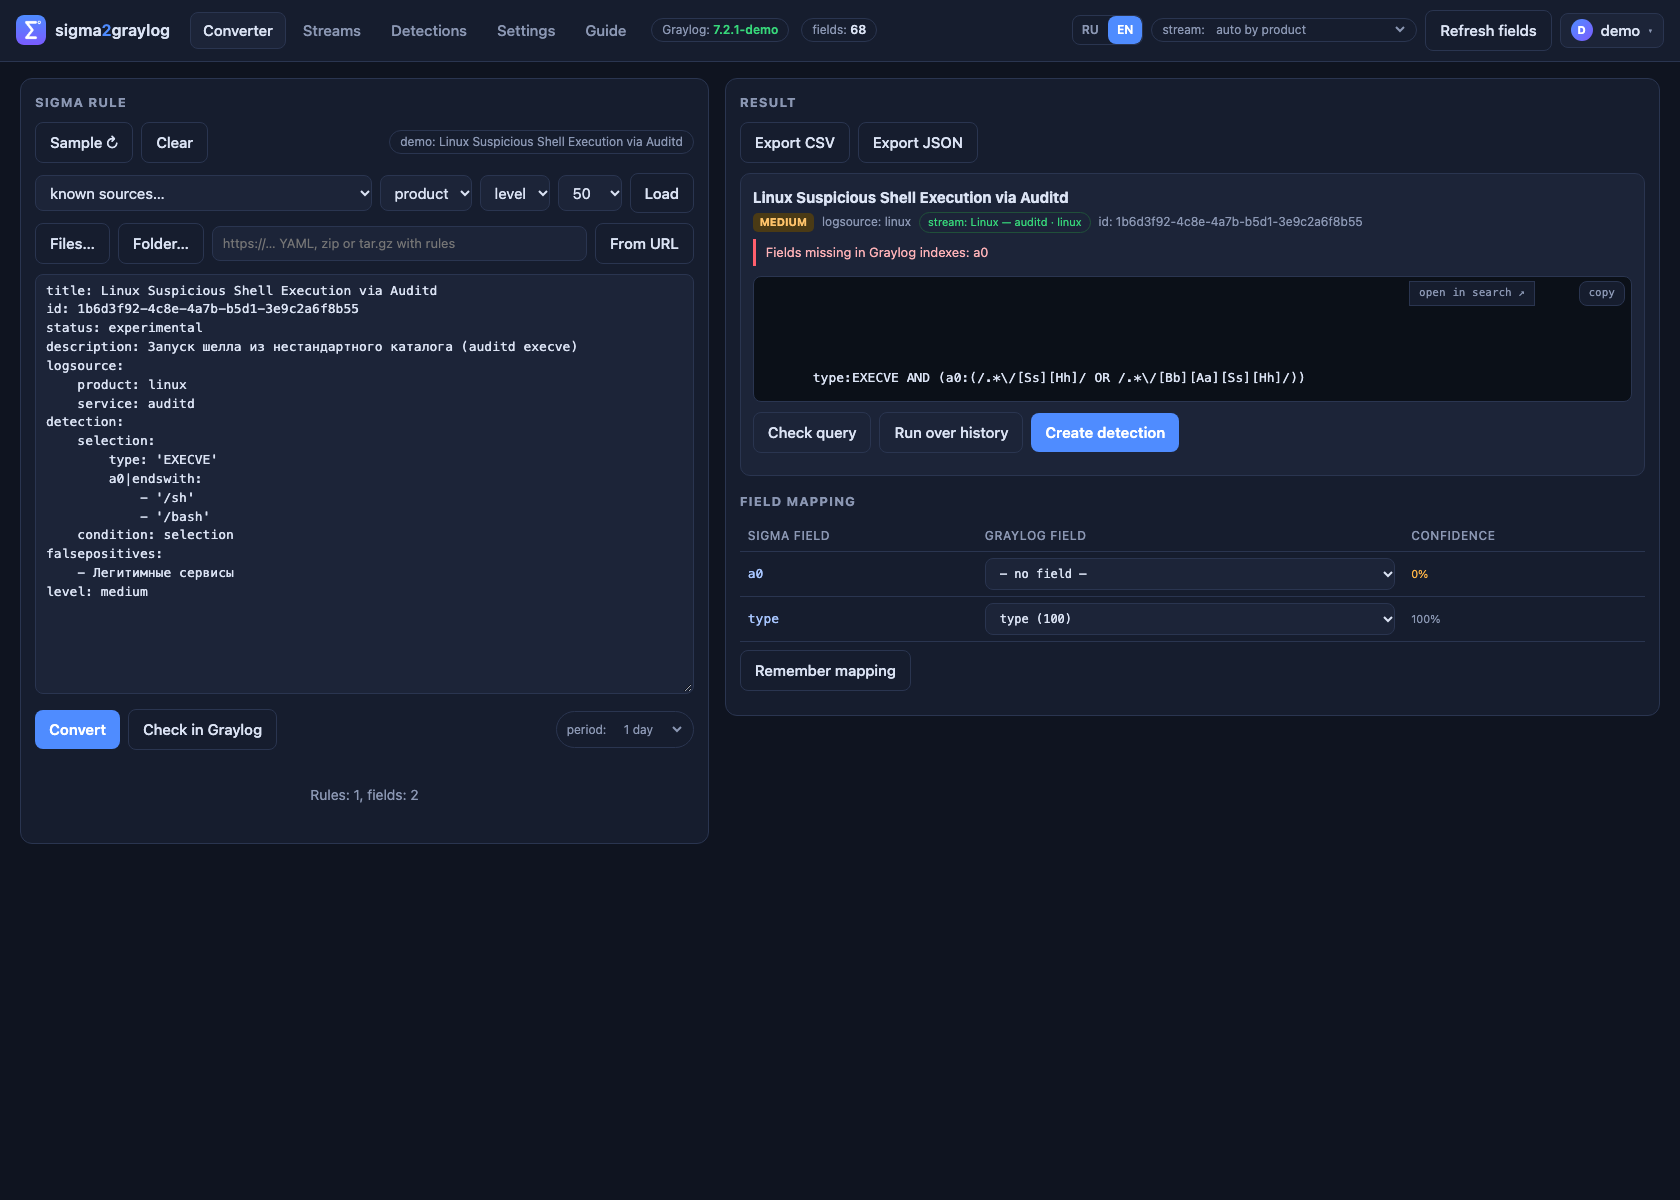
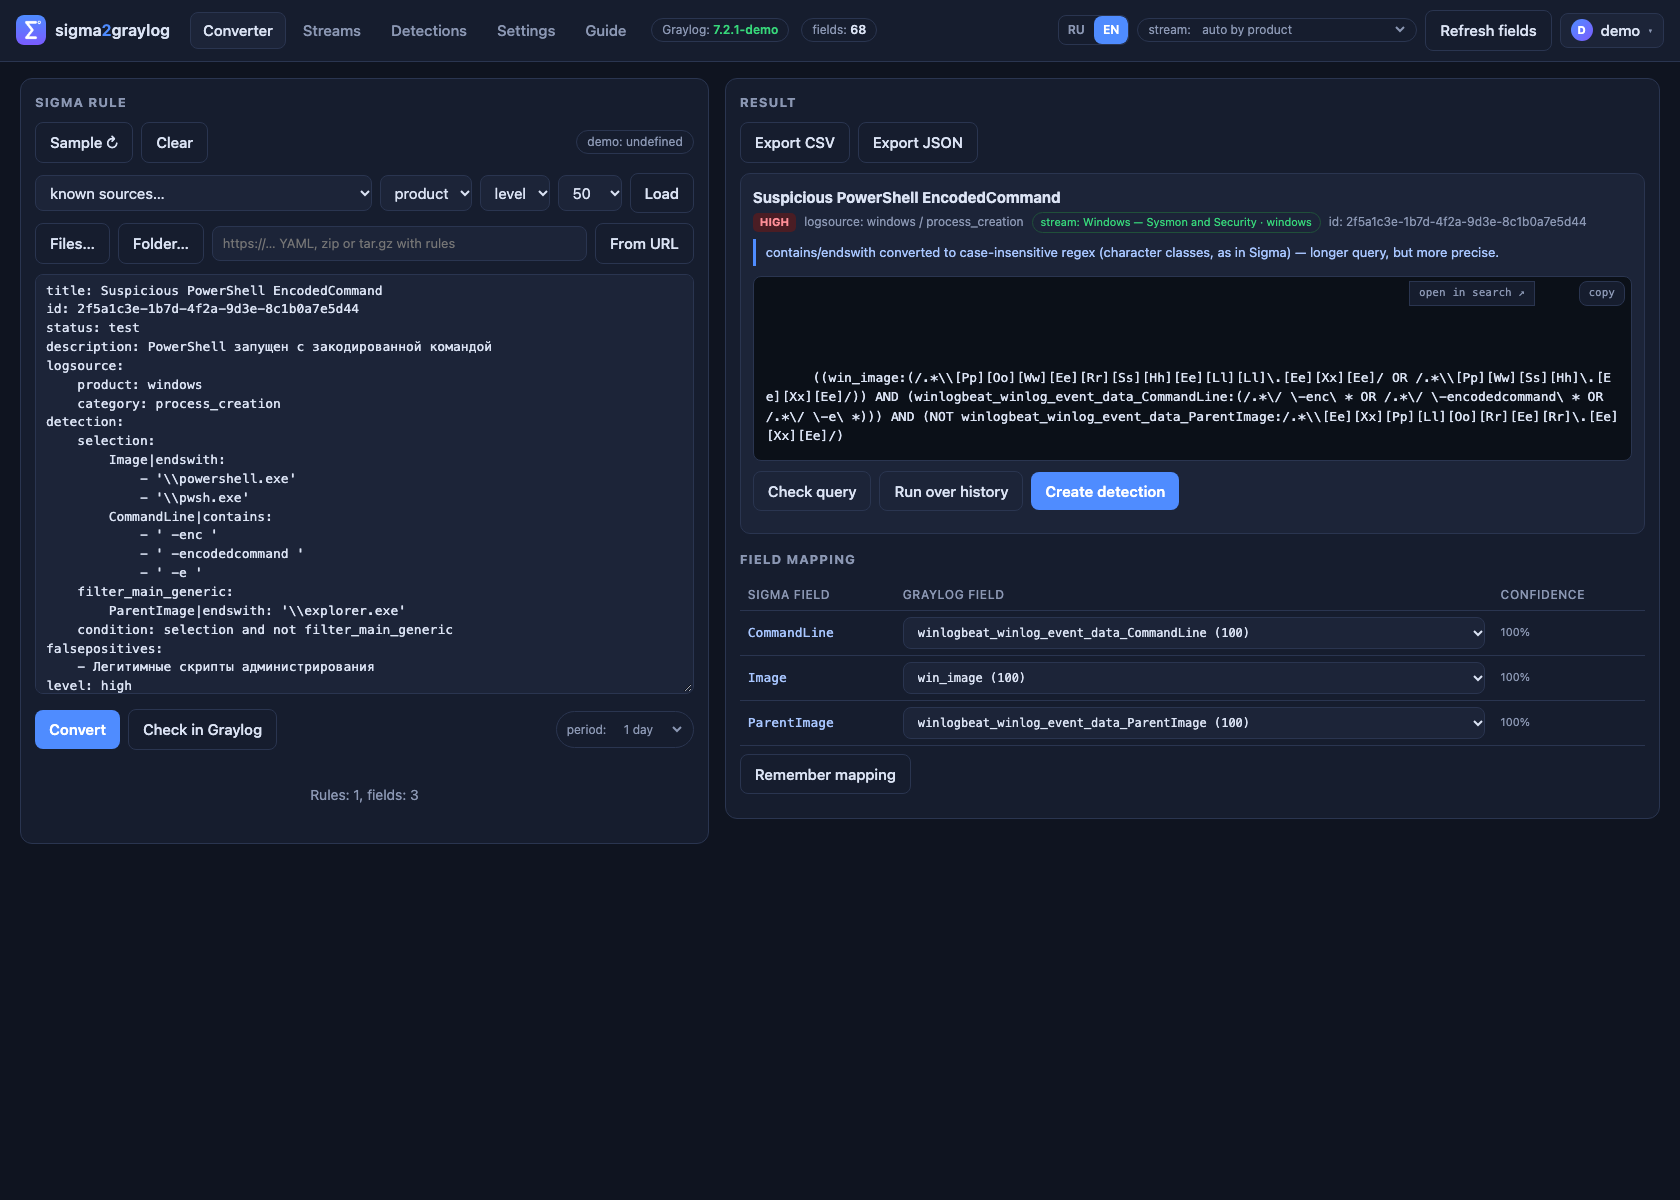
кадры руководства: воспроизводимый выбор правила и исправленные рамки
- demo: добавлен ?sample=N (сервер и интерфейс) — раньше правило выбиралось случайно,
  из-за чего таблица маппинга в кадрах каждый раз была разной
- шаг 4: рамка охватывает все строки маппинга и не режет кнопку
- шаг 5: рамка останавливается перед «примеры событий», подпись не обрезается
- история: «всего за N дн.» переводится (было русским в английском интерфейсе)
- английские кадры пересняты после локализации демо-данных (детекты на английском)

diff --git a/app/static/index.html b/app/static/index.html
@@ -1718,7 +1718,8 @@ window.addEventListener('hashchange', () => routeHash(location.hash.slice(1)));
 
 async function demoAutoFill() {
   try {
-    const s = await api('/api/samples/random');
+    const fixed = new URLSearchParams(location.search).get('sample');
+    const s = await api('/api/samples/random' + (fixed !== null ? `?index=${encodeURIComponent(fixed)}` : ''));
     $('#sigma').value = s.yaml;
     setSource('демо: ' + s.title);
     await doConvert();

diff --git a/app/static/js/i18n.js b/app/static/js/i18n.js
@@ -311,6 +311,7 @@
     [/^· событий: (.*)$/, '· events: $1'],
     [/^· полей: (.*)$/, '· fields: $1'],
     [/^· выборка: (.*)$/, '· sample: $1'],
+    [/^всего за (\d+) дн\.:\s*$/, 'total over $1 days:'],
     [/^всего за (\d+) дн\.: (.*)$/, 'total over $1 days: $2'],
     [/^· авторизация: (.*)$/, '· auth: $1'],
     [/^загружено (\d+) правил(.*)$/, 'loaded $1 rules$2'],

diff --git a/tools/annotate_guide.py b/tools/annotate_guide.py
@@ -46,27 +46,14 @@ STEPS = {
             {"label": "1", "band_y": (300, 466), "band": (24, 950)},
             {"label": "2", "band_y": (466, 516), "band": (24, 580)},
         ],
-        "en": {"crop": (700, 92, 1660, 478),
-               "marks": [
-                   {"label": "1", "band_y": (300, 404), "band": (24, 950)},
-                   {"label": "2", "band_y": (410, 456), "band": (24, 580)},
-               ]},
     },
     "g4-mapping": {
-        "source": "01-converter.png", "crop": (700, 548, 1660, 742),
-        "marks": [
-            {"label": "1", "band_y": (614, 742), "band": (180, 940)},
-        ],
-        "en": {"crop": (700, 556, 1660, 716),
-               "marks": [{"label": "1", "band_y": (600, 712), "band": (180, 940)}]},
+        "source": "01-converter.png", "crop": (700, 545, 1660, 800),
+        "marks": [{"label": "1", "band_y": (600, 792), "band": (180, 940)}],
     },
     "g5-history": {
-        "source": "05-history.png", "crop": (700, 425, 1660, 745),
-        "marks": [
-            {"label": "1", "probe": (765, 425, 700, (17, 24, 40)), "band": (20, 950)},
-        ],
-        "en": {"crop": (700, 425, 1660, 800),
-               "marks": [{"label": "1", "band_y": (433, 560), "band": (20, 950)}]},
+        "source": "05-history.png", "crop": (700, 425, 1660, 770),
+        "marks": [{"label": "1", "band_y": (466, 586), "band": (20, 950)}],
     },
     "g6-streams": {
         "source": "02-streams.png", "crop": (10, 60, 1670, 880),

diff --git a/app/main.py b/app/main.py
@@ -576,8 +576,10 @@ class UrlRequest(BaseModel):
 
 
 @app.get("/api/samples/random", dependencies=[Depends(current_user)])
-def sample(exclude: str = ""):
-    """Случайное правило из встроенной коллекции."""
+def sample(exclude: str = "", index: int | None = None):
+    """Правило из встроенной коллекции: случайное или с фиксированным номером."""
+    if index is not None:
+        return samples.sample_at(index)
     exclude_titles = [t for t in exclude.split("|") if t.strip()] if exclude else []
     return samples.random_sample(exclude_titles)
 

diff --git a/app/samples.py b/app/samples.py
@@ -256,6 +256,11 @@ level: medium"""
 ]
 
 
+def sample_at(index: int) -> dict:
+    """Правило по индексу — нужен для воспроизводимых скриншотов и демонстраций."""
+    return SAMPLES[index % len(SAMPLES)]
+
+
 def random_sample(exclude_titles: list[str] | None = None) -> dict:
     """Случайное правило, по возможности не из уже показанных."""
     exclude_titles = exclude_titles or []
